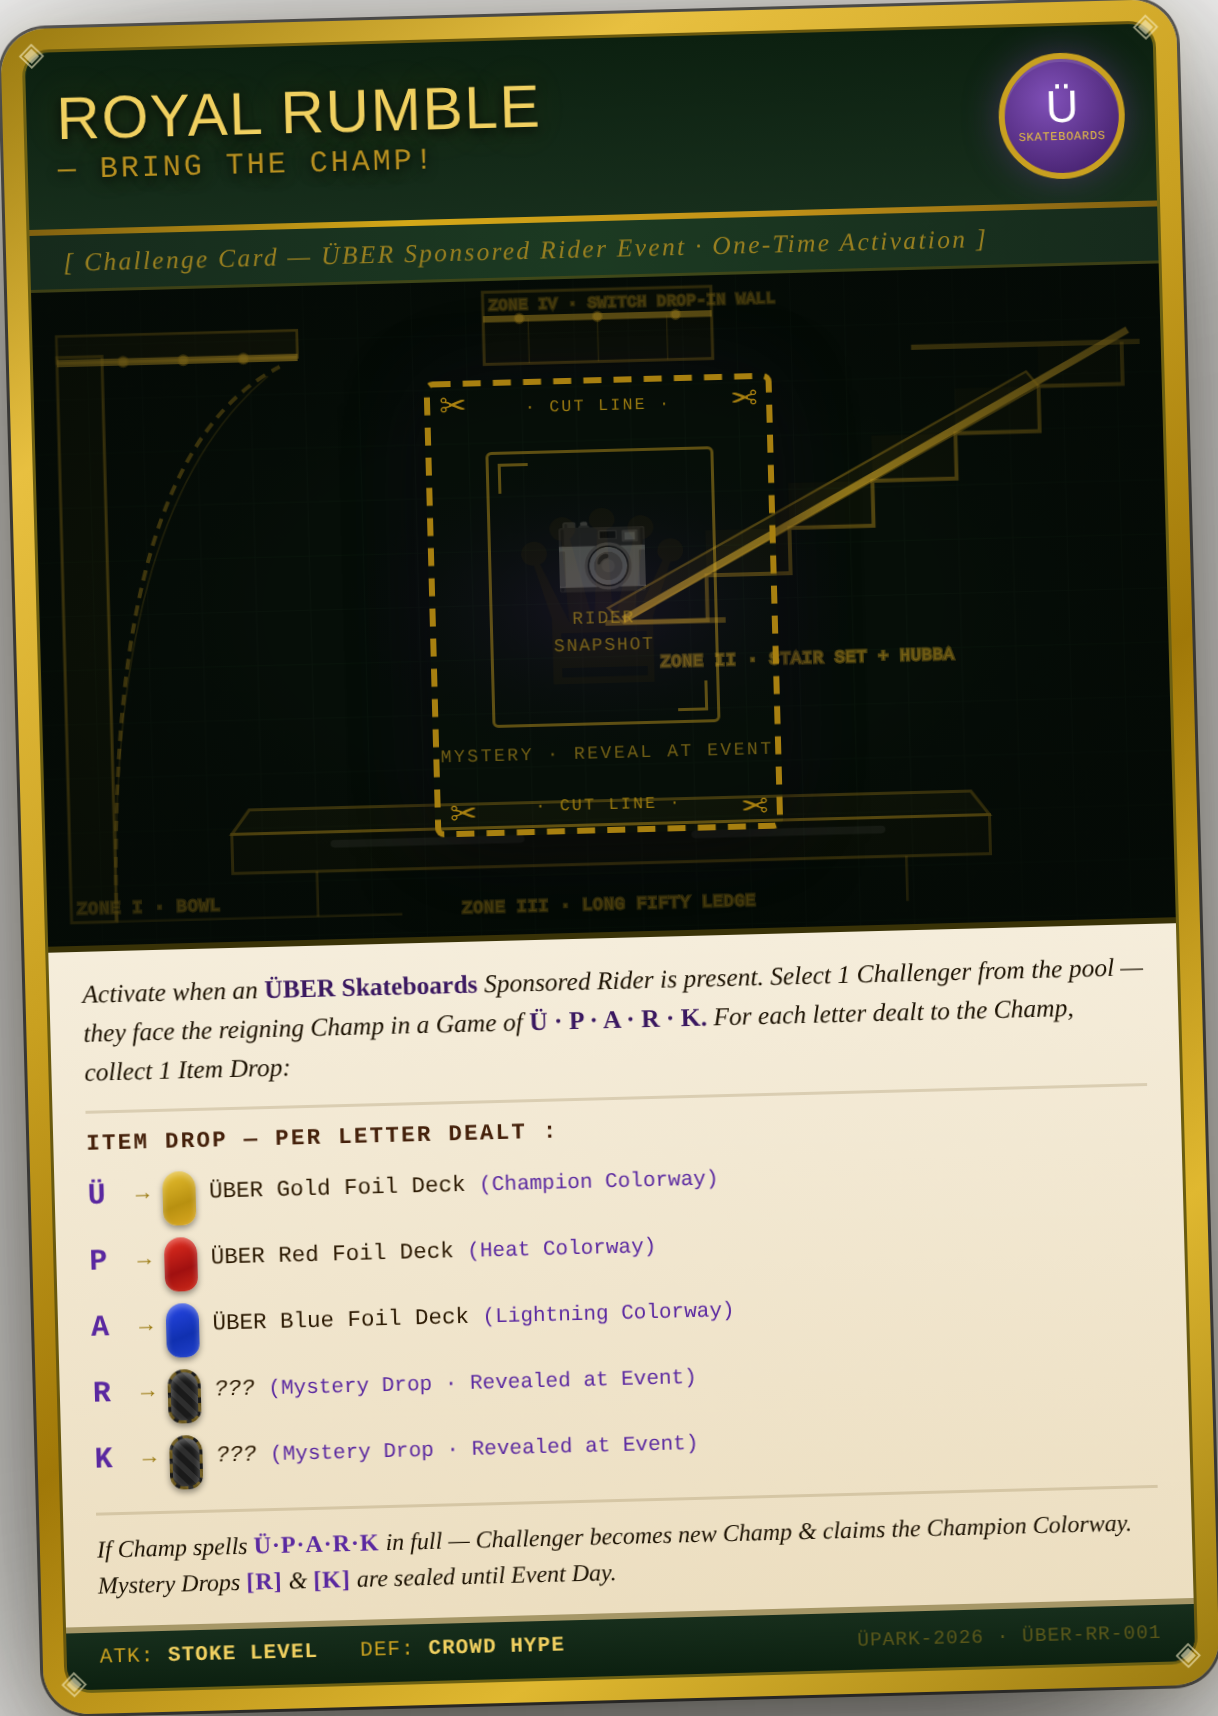
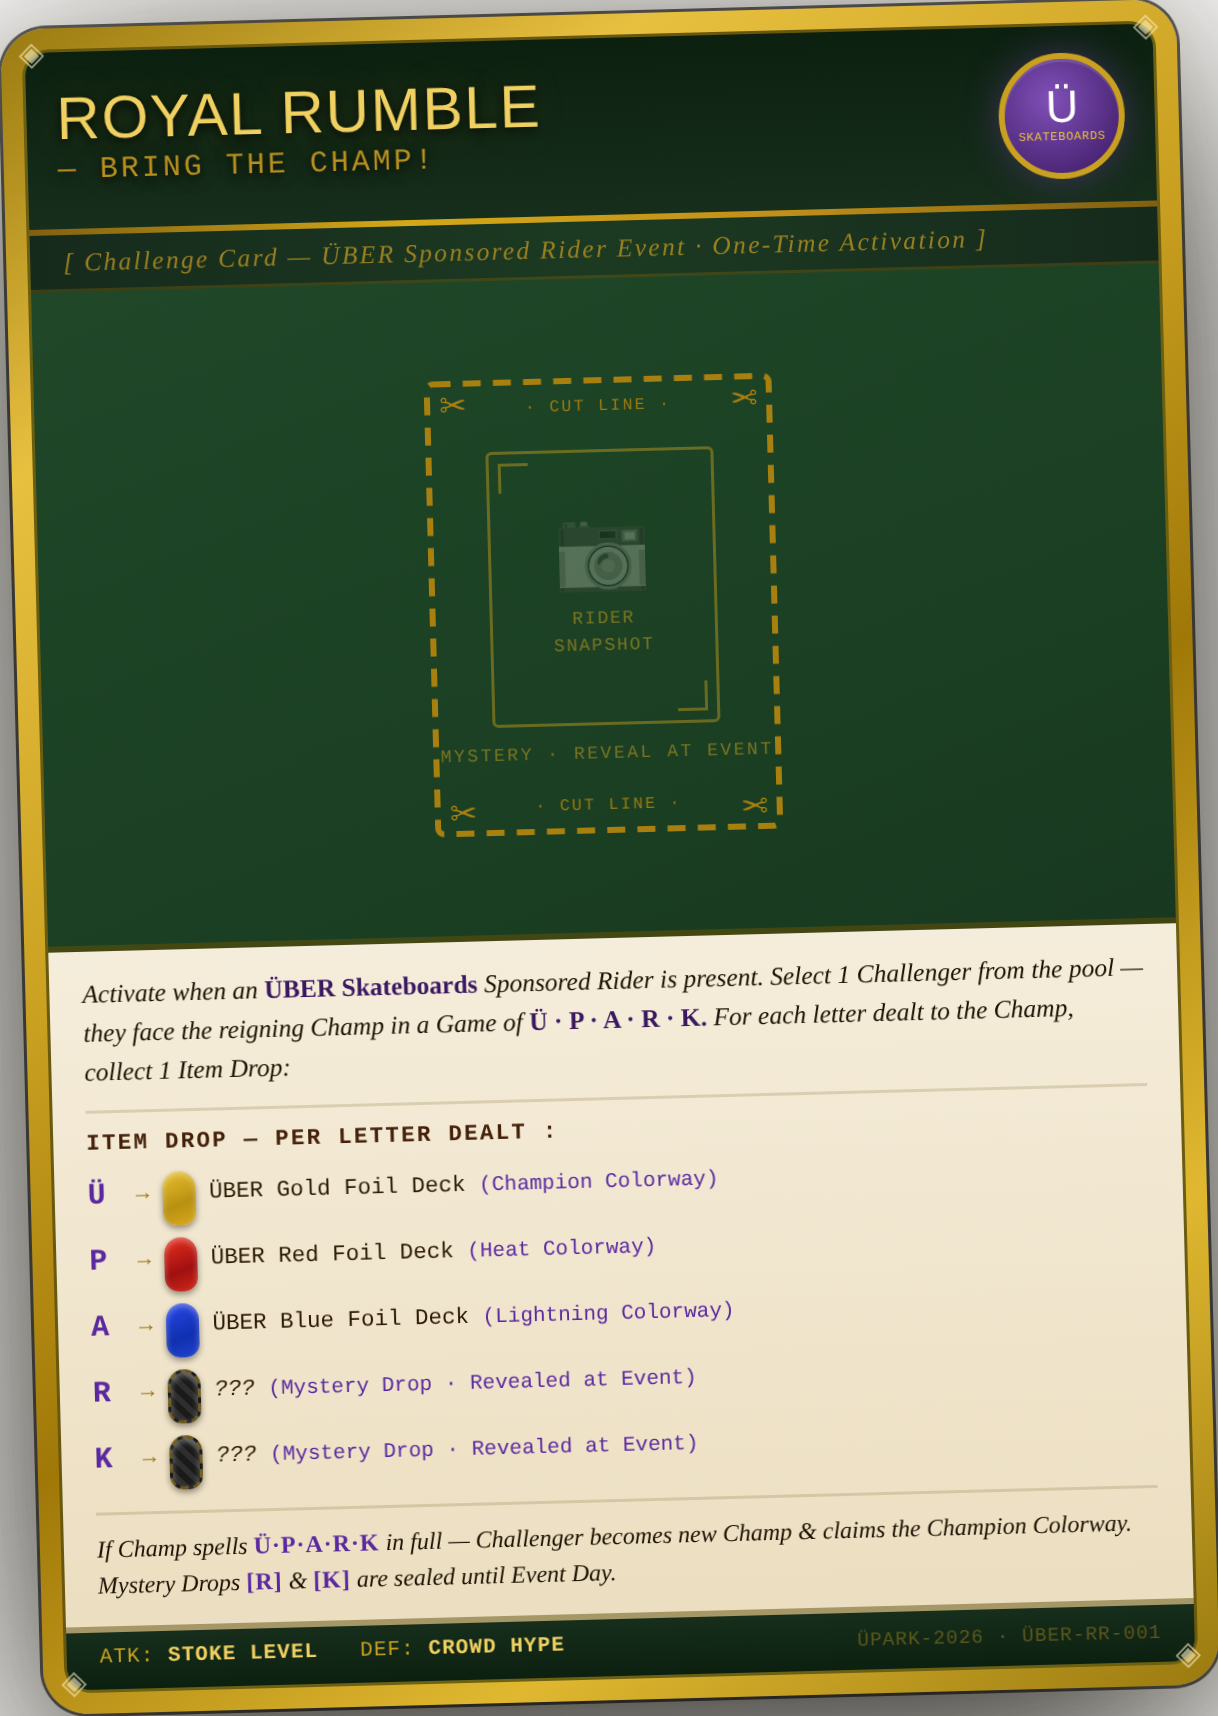
Strip park SVG from art zone, keep only cutout frame
Removes ~100 lines of blueprint SVG from royal-rumble.html.
Art zone background set to transparent. Both PNG exports regenerated.

diff --git a/cards/royal-rumble.html b/cards/royal-rumble.html
@@ -149,7 +149,7 @@ body {
 
 /* ── Art zone (mystery cutout) ───────────────────────── */
 .art-zone {
-  background: #060e08;
+  background: transparent;
   padding: 0;
   border-bottom: 2px solid rgba(100,80,8,0.55);
   overflow: hidden;
@@ -158,22 +158,14 @@ body {
 .cutout-wrap {
   position: relative;
   height: 218px;
+  display: flex;
+  align-items: center;
+  justify-content: center;
 }
 
-/* SVG park collage — fills entire art zone */
-.park-bg {
-  position: absolute;
-  inset: 0;
-  width: 100%;
-  height: 100%;
-}
-
-/* Rider frame — floats centered over the park scene */
+/* Rider frame */
 .cutout {
-  position: absolute;
-  top: 50%;
-  left: 50%;
-  transform: translate(-50%, -50%);
+  position: relative;
   width: 116px;
   height: 152px;
   border: 2px dashed #a88010;
@@ -185,22 +177,8 @@ body {
   justify-content: center;
   gap: 6px;
   overflow: hidden;
-  z-index: 2;
-  box-shadow:
-    0 6px 24px rgba(0,0,0,0.5),
-    0 0 32px rgba(80,40,120,0.12);
 }
 
-/* Crown watermark */
-.cutout-wm {
-  position: absolute;
-  font-size: 80px;
-  color: rgba(150,110,8,0.06);
-  user-select: none;
-  top: 50%; left: 50%;
-  transform: translate(-50%, -50%);
-  line-height: 1;
-}
 
 /* Scissors at inner corners */
 .sc {
@@ -437,115 +415,11 @@ body {
         [ Challenge Card &mdash; ÜBER Sponsored Rider Event &middot; One-Time Activation ]
       </div>
 
-      <!-- Art zone: park obstacle collage + mystery rider cutout -->
+      <!-- Art zone: mystery rider cutout -->
       <div class="art-zone">
         <div class="cutout-wrap">
 
-          <!-- Park blueprint SVG — all field card zones rendered as line art -->
-          <svg class="park-bg" viewBox="0 0 375 218" xmlns="http://www.w3.org/2000/svg" preserveAspectRatio="xMidYMid slice">
-            <defs>
-              <pattern id="pg" width="18" height="18" patternUnits="userSpaceOnUse">
-                <path d="M 18 0 L 0 0 0 18" fill="none" stroke="rgba(80,130,70,0.055)" stroke-width="0.5"/>
-              </pattern>
-              <radialGradient id="cglow" cx="50%" cy="50%" r="26%">
-                <stop offset="0%" stop-color="rgba(80,40,130,0.22)"/>
-                <stop offset="100%" stop-color="transparent"/>
-              </radialGradient>
-              <radialGradient id="vignette" cx="50%" cy="50%" r="70%">
-                <stop offset="40%" stop-color="transparent"/>
-                <stop offset="100%" stop-color="rgba(4,9,5,0.68)"/>
-              </radialGradient>
-            </defs>
-
-            <!-- Base fill + grid -->
-            <rect width="375" height="218" fill="#060e08"/>
-            <rect width="375" height="218" fill="url(#pg)"/>
-
-            <!-- ─── ZONE I · QUARTER PIPE / BOWL (left) ─── -->
-            <g stroke="rgba(175,138,28,0.44)" fill="none">
-              <!-- Vertical wall face -->
-              <rect x="8" y="22" width="15" height="188" fill="rgba(175,138,28,0.05)" stroke-width="1"/>
-              <!-- Deck platform -->
-              <rect x="8" y="15" width="80" height="9" fill="rgba(175,138,28,0.08)" stroke-width="0.9"/>
-              <!-- Coping — heavier -->
-              <line x1="8" y1="24" x2="88" y2="24" stroke-width="2.4" stroke="rgba(210,168,40,0.62)"/>
-              <!-- Ramp surface curve -->
-              <path d="M 23 210 Q 23 55 82 27" stroke-width="1.3" stroke-dasharray="3.5,2.5"/>
-              <!-- Inner ramp echo -->
-              <path d="M 23 200 Q 25 72 78 30" stroke-width="0.6" stroke="rgba(175,138,28,0.2)"/>
-              <!-- Ground -->
-              <line x1="23" y1="210" x2="118" y2="210" stroke-width="0.8" stroke="rgba(175,138,28,0.25)"/>
-              <!-- Bolts on coping -->
-              <circle cx="30" cy="24" r="1.5" fill="rgba(210,168,40,0.5)"/>
-              <circle cx="50" cy="24" r="1.5" fill="rgba(210,168,40,0.5)"/>
-              <circle cx="70" cy="24" r="1.5" fill="rgba(210,168,40,0.5)"/>
-              <!-- Zone label -->
-              <text x="10" y="207" font-family="Courier New" font-size="5.5" fill="rgba(175,138,28,0.42)" letter-spacing="0.07em">ZONE I · BOWL</text>
-            </g>
-
-            <!-- ─── ZONE II · STAIR SET + HUBBA (right) ─── -->
-            <g stroke="rgba(175,138,28,0.44)" fill="none">
-              <!-- Top platform -->
-              <line x1="292" y1="26" x2="368" y2="26" stroke-width="1.8"/>
-              <!-- Stair profile — 5 steps descending left -->
-              <polyline points="362,26 362,40 334,40 334,55 306,55 306,70 278,70 278,85 250,85 250,100 222,100 222,115 194,115" stroke-width="1.3"/>
-              <!-- Bottom landing -->
-              <line x1="188" y1="115" x2="228" y2="115" stroke-width="1.8"/>
-              <!-- Step treads shading -->
-              <rect x="334" y="26" width="28" height="14" fill="rgba(175,138,28,0.04)" stroke="none"/>
-              <rect x="306" y="40" width="28" height="15" fill="rgba(175,138,28,0.04)" stroke="none"/>
-              <rect x="278" y="55" width="28" height="15" fill="rgba(175,138,28,0.04)" stroke="none"/>
-              <rect x="250" y="70" width="28" height="15" fill="rgba(175,138,28,0.04)" stroke="none"/>
-              <rect x="222" y="85" width="28" height="15" fill="rgba(175,138,28,0.04)" stroke="none"/>
-              <!-- Handrail -->
-              <line x1="364" y1="22" x2="194" y2="114" stroke-width="2.4" stroke="rgba(210,168,40,0.65)"/>
-              <!-- Hubba ledge body -->
-              <path d="M 334 40 L 194 115 L 189 110 L 330 35 Z" fill="rgba(175,138,28,0.08)" stroke-width="0.8"/>
-              <!-- Zone label -->
-              <text x="206" y="130" font-family="Courier New" font-size="5.5" fill="rgba(175,138,28,0.42)" letter-spacing="0.06em">ZONE II · STAIR SET + HUBBA</text>
-            </g>
-
-            <!-- ─── ZONE III · LONG FIFTY LEDGE (bottom center) ─── -->
-            <g stroke="rgba(175,138,28,0.36)" fill="none">
-              <!-- Top face (foreshortened) -->
-              <path d="M 68 174 L 308 174 L 314 182 L 62 182 Z" fill="rgba(175,138,28,0.06)" stroke-width="1"/>
-              <!-- Front face -->
-              <rect x="62" y="182" width="252" height="13" fill="rgba(175,138,28,0.04)" stroke-width="1"/>
-              <!-- Wax smears -->
-              <line x1="96" y1="186" x2="158" y2="186" stroke="rgba(255,255,255,0.07)" stroke-width="2.5" stroke-linecap="round"/>
-              <line x1="216" y1="186" x2="278" y2="186" stroke="rgba(255,255,255,0.07)" stroke-width="2.5" stroke-linecap="round"/>
-              <!-- Legs -->
-              <line x1="90" y1="195" x2="90" y2="210" stroke-width="0.9" stroke="rgba(175,138,28,0.28)"/>
-              <line x1="286" y1="195" x2="286" y2="210" stroke-width="0.9" stroke="rgba(175,138,28,0.28)"/>
-              <!-- Zone label -->
-              <text x="138" y="210" font-family="Courier New" font-size="5.5" fill="rgba(175,138,28,0.36)" letter-spacing="0.06em">ZONE III · LONG FIFTY LEDGE</text>
-            </g>
-
-            <!-- ─── ZONE IV · SWITCH DROP-IN WALL (top center) ─── -->
-            <g stroke="rgba(175,138,28,0.36)" fill="none">
-              <!-- Wall face -->
-              <rect x="150" y="4" width="76" height="24" fill="rgba(175,138,28,0.04)" stroke-width="1"/>
-              <!-- Drop-in lip (coping) -->
-              <line x1="150" y1="13" x2="226" y2="13" stroke-width="2.2" stroke="rgba(210,168,40,0.55)"/>
-              <!-- Brick lines on wall face -->
-              <line x1="165" y1="13" x2="165" y2="28" stroke-width="0.5" stroke="rgba(175,138,28,0.2)"/>
-              <line x1="188" y1="13" x2="188" y2="28" stroke-width="0.5" stroke="rgba(175,138,28,0.2)"/>
-              <line x1="211" y1="13" x2="211" y2="28" stroke-width="0.5" stroke="rgba(175,138,28,0.2)"/>
-              <!-- Bolts on coping -->
-              <circle cx="162" cy="13" r="1.4" fill="rgba(210,168,40,0.5)"/>
-              <circle cx="188" cy="13" r="1.4" fill="rgba(210,168,40,0.5)"/>
-              <circle cx="214" cy="13" r="1.4" fill="rgba(210,168,40,0.5)"/>
-              <!-- Zone label -->
-              <text x="152" y="10" font-family="Courier New" font-size="5" fill="rgba(175,138,28,0.35)" letter-spacing="0.06em">ZONE IV · SWITCH DROP-IN WALL</text>
-            </g>
-
-            <!-- Center glow (behind mystery rider) + vignette -->
-            <rect width="375" height="218" fill="url(#cglow)"/>
-            <rect width="375" height="218" fill="url(#vignette)"/>
-          </svg>
-
           <div class="cutout">
-            <div class="cutout-wm">♛</div>
             <span class="sc tl">✂</span>
             <span class="sc tr">✂</span>
             <span class="sc bl">✂</span>
